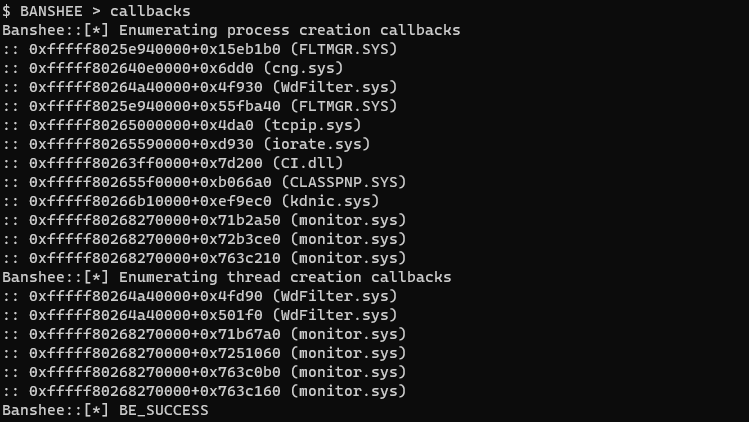
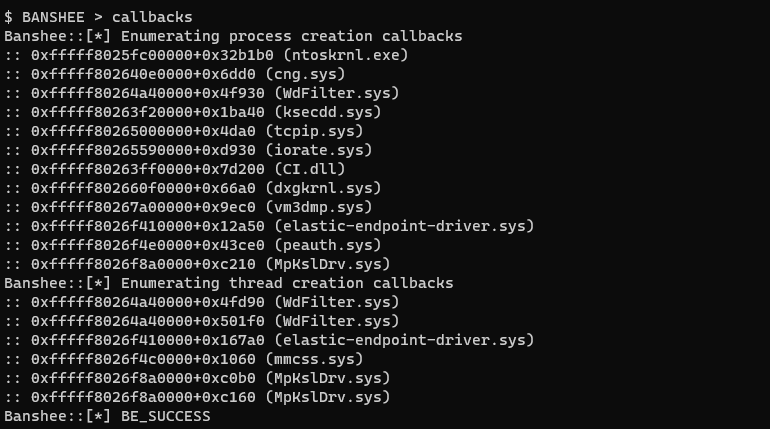
fix addr to driver matching

Changed region(s): [[0.0, 0.0, 0.7063, 0.9858]]

diff --git a/Banshee/CallbackUtils.hpp b/Banshee/CallbackUtils.hpp
@@ -15,7 +15,7 @@ BeEnumerateDrivers()
 
     while ((PKLDR_DATA_TABLE_ENTRY)entry->InLoadOrderLinks.Flink != first)
     {
-		LOG_MSG("Driver: %ls - 0x%llx", entry->BaseDllName.Buffer, entry->DllBase);
+		LOG_MSG("Driver: 0x%llx :: %ls", entry->DllBase, entry->BaseDllName.Buffer);
         entry = (PKLDR_DATA_TABLE_ENTRY)entry->InLoadOrderLinks.Flink;
     }
 }
@@ -32,16 +32,22 @@ BeGetDriverForAddress(UINT64 address)
 	PKLDR_DATA_TABLE_ENTRY entry = (PKLDR_DATA_TABLE_ENTRY)(BeGlobals::driverObject)->DriverSection;
 	PKLDR_DATA_TABLE_ENTRY first = entry;
 
+	LOG_MSG("Looking for address: 0x%llx", address);
+
+	// HACK: TODO: drivers are not sorted by address, so i do stupid shit here
+	PKLDR_DATA_TABLE_ENTRY currentBestMatch = NULL;
 	while ((PKLDR_DATA_TABLE_ENTRY)entry->InLoadOrderLinks.Flink != first)
 	{
-		if (UINT64(((PKLDR_DATA_TABLE_ENTRY)entry->InLoadOrderLinks.Flink)->DllBase) > address)
+		UINT64 startAddr = UINT64(entry->DllBase);
+		UINT64 endAddr = UINT64(((PKLDR_DATA_TABLE_ENTRY)entry->InLoadOrderLinks.Flink)->DllBase);
+		if (address >= startAddr && (currentBestMatch == NULL || startAddr > UINT64(currentBestMatch->DllBase)))
 		{
-			return entry;
+			currentBestMatch = entry;
 		}
 		entry = (PKLDR_DATA_TABLE_ENTRY)entry->InLoadOrderLinks.Flink;
 	}
 
-	return NULL;
+	return currentBestMatch;
 }
 
 /**
@@ -53,6 +59,7 @@ BeGetDriverForAddress(UINT64 address)
 UINT64
 BeGetKernelCallbackArrayAddr(CALLBACK_TYPE type)
 {
+	BeEnumerateDrivers();
 	UNICODE_STRING callbackRoutineName;
 
 	switch (type)
